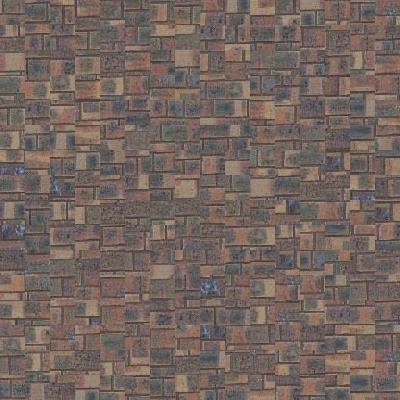
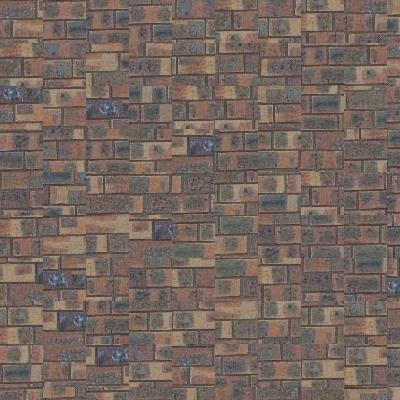
Finish overlapping patches method.

diff --git a/PJ2 Image Quilting/quilt_simple.m b/PJ2 Image Quilting/quilt_simple.m
@@ -1,0 +1,41 @@
+function  output = quilt_simple(sample,outsize,patchsize,overlap,tol)
+    % control the random sampling range
+    r = floor (patchsize/2); 
+    D = (2*r +1);
+    N = ceil (outsize/ (D-overlap));
+
+    result = zeros(N*(D-overlap)+overlap,N*(D-overlap)+overlap,3);
+    for j = 1 : N
+        for i = 1 : N
+            % mask overlap window
+            [mask, wx, wy] = mask_win(i, j, overlap, D);
+            temp = result((wy+1):(wy+D),(wx+1):(wx+D),:);
+
+            % calculate the ssd of the sample image
+            cost_img = ssd_patch(sample,temp,mask);
+            cost_edge = cost_img(r+1: end-r,r+1:end-r); % avoid reach boundary
+            
+            % Find the minimum cost and position within tolarence
+            minc = min(min(cost_edge));
+            minc = max(minc, 1e-10); % avoid initially all zero in min
+           
+            [y,x] = find(cost_edge<minc*(1+tol)); 
+            rand_no = randi(size(y,1));
+            ry = y(rand_no)+r;
+            rx = x(rand_no)+r;
+      
+            % randomly select the patch
+            patch = sample((ry-r):(ry+r), (rx-r):(rx+r),:);
+            result((wy+1):(wy+D),(wx+1):(wx+D),:) = patch;
+            
+            % test display
+%             win_mask = temp.*mask;
+%             figure(4),imshow(win_mask);
+%             figure(5),imagesc(cost_edge),colormap('gray');
+%             figure(6),imshow(patch);
+%             figure(7),imshow(result);
+        end
+    end
+    output = result(1:outsize,1:outsize,:);
+end
+

diff --git a/PJ2 Image Quilting/image_quilting.m b/PJ2 Image Quilting/image_quilting.m
@@ -1,25 +1,37 @@
-close all;
+clc; clear; close all;
 % img = im2single(imread(['.\images\',num2str(pair_num),'.jpg']));
 
 %% image quilting
 % load image
-num = 1;
-img = im2single(imread(['.\images\tx_',num2str(num),'.jpg']));
+num = 4;
+img = im2double(imread(['.\images\tx_',num2str(num),'.jpg']));
 figure(1),imshow(img),title('The original image');
 imwrite(img,['.\results\org_img_',num2str(num),'.jpg']);
+
+% parameter settings
+sample = img;
+outsize = 400;
+patchsize = 21;
+
 % image quilting method selection
 rand_sample = true;
 overlap_patches = true;
 seam_finding = true;
 
 if (rand_sample) 
-    sample = img;
-    outsize = 420;
-    patchsize = 25;
-    
-    % random sample image
+    % Random sample image
     out_rand = quilt_random(sample, outsize, patchsize);
     figure(2),imshow(out_rand),title('The random sampled image');
     imwrite(out_rand,['.\results\rdm_sp_',num2str(num),'.jpg']);
+end
+
+if (overlap_patches)
+    % Overlapping patches
+    overlap = floor(patchsize / 6);
+    tol = 0.01;
+    out_over = quilt_simple(sample,outsize,patchsize,overlap,tol);
+    
+    figure(3),imshow(out_over),title('The overlapped image');
+    imwrite(out_over,['.\results\ovlp_pch_',num2str(num),'.jpg']);
 end
 %% texture transfer

diff --git a/PJ2 Image Quilting/quilt_random.m b/PJ2 Image Quilting/quilt_random.m
@@ -3,11 +3,11 @@ function  output = quilt_random(sample,outsize,patchsize)
     [imh,imw,~] = size(sample);
     r = floor (patchsize/2); 
     D = (2*r +1);
-    N = floor (outsize / D);
+    N = ceil (outsize / D);
 
       
     % with no edge overlaps
-    temp = []; 
+    result = []; 
     for j =  1 : N % each row
         trow = [];
         for i =1 : N
@@ -18,7 +18,7 @@ function  output = quilt_random(sample,outsize,patchsize)
        
                 trow = cat(2,trow,patch);
         end
-        temp = cat(1,temp,trow);
+        result = cat(1,result,trow);
     end
-    output = temp;
+    output = result(1:outsize,1:outsize,:);
 end

diff --git a/PJ2 Image Quilting/mask_win.m b/PJ2 Image Quilting/mask_win.m
@@ -1,0 +1,22 @@
+function [mask, wx, wy] = mask_win(i, j, overlap, D)
+    if (i~=1 && j~=1)    
+        mask = [ ones(overlap,overlap), ones(overlap,D-overlap);
+                       ones(D-overlap, overlap), zeros(D-overlap,D-overlap)];
+    elseif (i==1 && j~=1) 
+        mask = [ones(overlap,D);zeros(D-overlap,D)]; 
+    elseif (i~=1 && j==1)
+        mask = [ones(D,overlap),zeros(D,D-overlap)];
+    elseif (i==1 && j ==1)
+        mask = zeros(D,D);
+    end
+
+    wx = (i-1)*(D-overlap);
+    if (wx < 0)
+        wx = 0;
+    end
+    wy = (j-1)*(D-overlap);
+    if (wy < 0)
+        wy = 0;
+    end
+    mask = repmat(mask,1,1,3);
+end

diff --git a/PJ2 Image Quilting/ssd_patch.m b/PJ2 Image Quilting/ssd_patch.m
@@ -1,0 +1,16 @@
+% This funtion generates the ssd results image of a given template
+% 
+% I - sample texture input image
+% T - the template to fill in current result image
+% M - mask indicates the overlapping area
+
+function cost = ssd_patch(I,T,M)
+    P = T.*M;
+    cons = sum(sum(P.^2));
+
+    ssd = zeros(size(I,1),size(I,2),3);
+    for i = 1:3
+        ssd(:,:,i) = imfilter(I(:,:,i).^2, M(:,:,i)) - 2*imfilter(I(:,:,i), P(:,:,i))+ cons(:,:,i);
+    end
+    cost = sum(ssd,3);
+end
